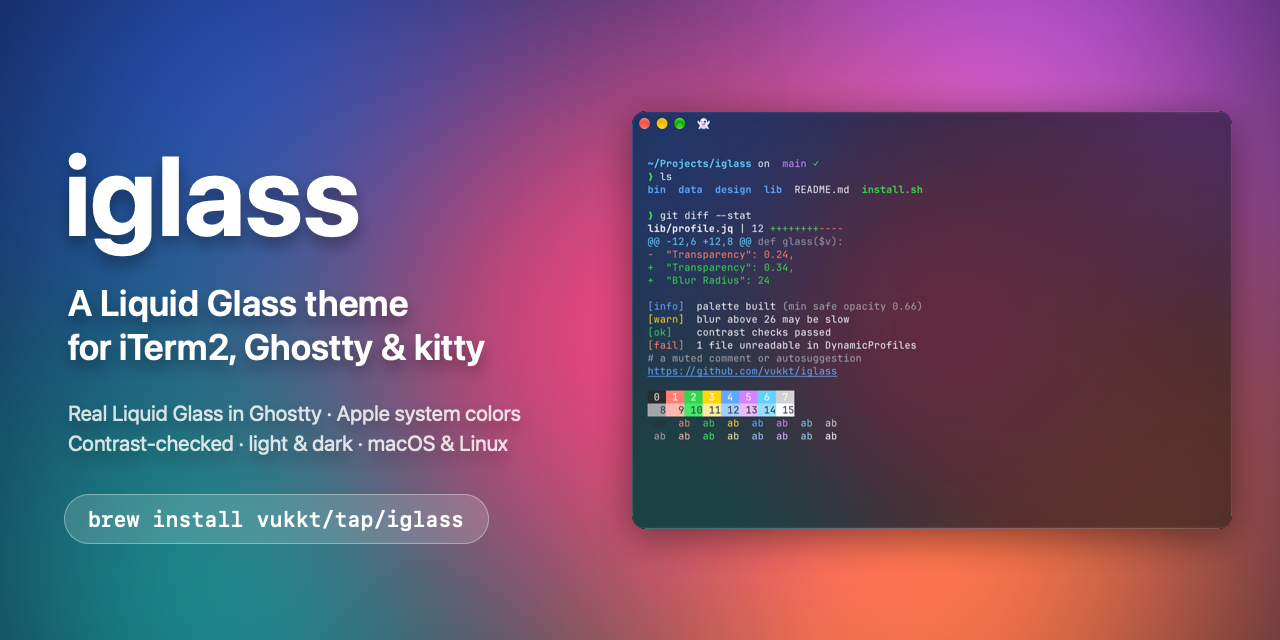
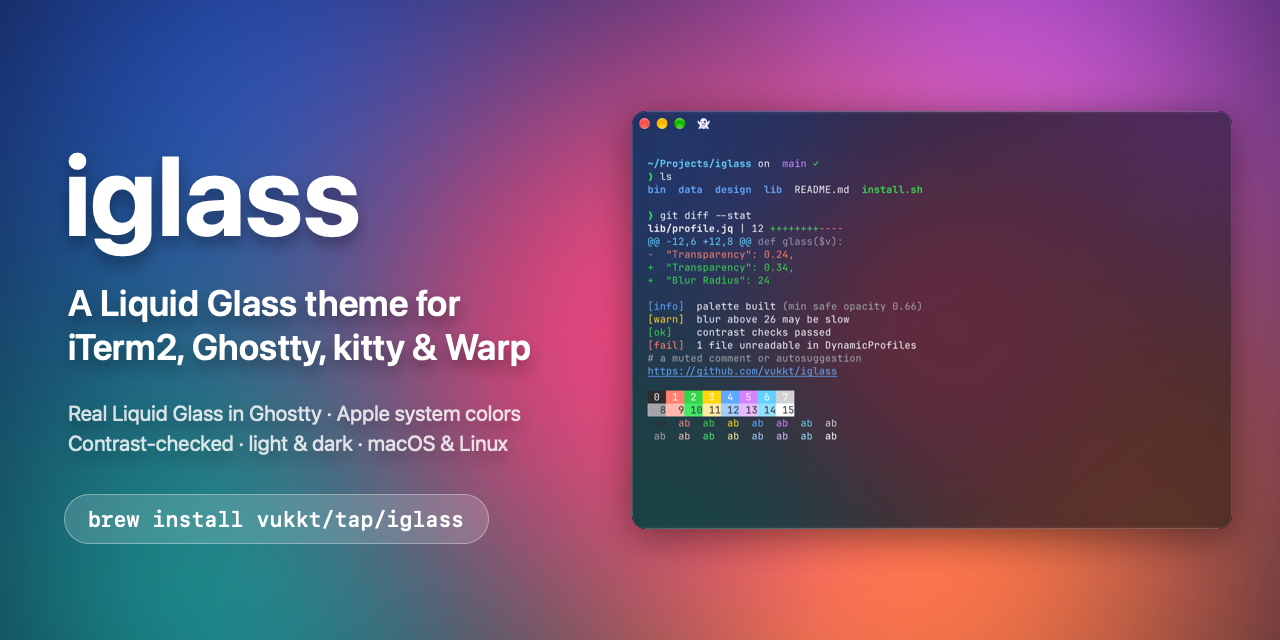
Social card: mention Warp (#12)

Changed region(s): [[0.0312, 0.4375, 0.4375, 0.5938]]

diff --git a/tools/social-card.js b/tools/social-card.js
@@ -54,8 +54,8 @@ function run(argv) {
   shadow(16, 0.35);
   const white = color(1, 1, 1, 1), soft = color(1, 1, 1, 0.82);
   text("iglass", 64, 380, $.NSFont.systemFontOfSizeWeight(112, $.NSFontWeightBold), white);
-  text("A Liquid Glass theme", 68, 316, $.NSFont.systemFontOfSizeWeight(36, $.NSFontWeightSemibold), white);
-  text("for iTerm2, Ghostty & kitty", 68, 272, $.NSFont.systemFontOfSizeWeight(36, $.NSFontWeightSemibold), white);
+  text("A Liquid Glass theme for", 68, 316, $.NSFont.systemFontOfSizeWeight(36, $.NSFontWeightSemibold), white);
+  text("iTerm2, Ghostty, kitty & Warp", 68, 272, $.NSFont.systemFontOfSizeWeight(36, $.NSFontWeightSemibold), white);
   text("Real Liquid Glass in Ghostty · Apple system colors", 68, 214, $.NSFont.systemFontOfSizeWeight(21, $.NSFontWeightRegular), soft);
   text("Contrast-checked · light & dark · macOS & Linux", 68, 184, $.NSFont.systemFontOfSizeWeight(21, $.NSFontWeightRegular), soft);
   $.NSGraphicsContext.restoreGraphicsState;
